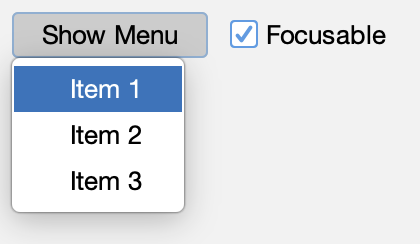
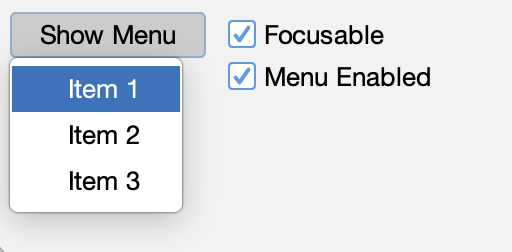
Update MenuItem.

Changed region(s): [[0.0, 0.0287, 0.9286, 0.918], [0.0, 0.9754, 0.031, 1.0]]

diff --git a/sierra-test/src/main/java/org/httprpc/sierra/test/MenuButtonTest.java b/sierra-test/src/main/java/org/httprpc/sierra/test/MenuButtonTest.java
@@ -34,6 +34,7 @@ public class MenuButtonTest extends JFrame implements Runnable {
     private @Outlet JMenuItem menuItem3 = null;
 
     private @Outlet JCheckBox focusableCheckBox = null;
+    private @Outlet JCheckBox menuEnabledCheckBox = null;
 
     private @Outlet JLabel selectionLabel = null;
 
@@ -56,6 +57,9 @@ public class MenuButtonTest extends JFrame implements Runnable {
         focusableCheckBox.addActionListener(event -> toggleFocusable());
         focusableCheckBox.setSelected(true);
 
+        menuEnabledCheckBox.addActionListener(event -> toggleMenuEnabled());
+        menuEnabledCheckBox.setSelected(true);
+
         setSize(320, 160);
         setVisible(true);
     }
@@ -66,6 +70,10 @@ public class MenuButtonTest extends JFrame implements Runnable {
 
     private void toggleFocusable() {
         menuButton.setFocusable(focusableCheckBox.isSelected());
+    }
+
+    private void toggleMenuEnabled() {
+        menuButton.getComponentPopupMenu().setEnabled(menuEnabledCheckBox.isSelected());
     }
 
     public static void main(String[] args) {

diff --git a/sierra/src/main/java/org/httprpc/sierra/MenuButton.java b/sierra/src/main/java/org/httprpc/sierra/MenuButton.java
@@ -117,7 +117,7 @@ public class MenuButton extends JButton {
         setModel(new JToggleButton.ToggleButtonModel() {
             @Override
             public void setSelected(boolean selected) {
-                if (selected && popupMenu.getComponentCount() > 0) {
+                if (selected && popupMenu.isEnabled() && popupMenu.getComponentCount() > 0) {
                     super.setSelected(true);
 
                     var size = getSize();

diff --git a/README.md b/README.md
@@ -432,7 +432,7 @@ See [SuggestionPickerTest.java](sierra-test/src/main/java/org/httprpc/sierra/tes
 ## Menu Buttons
 The `MenuButton` component displays a popup menu when pressed:
 
-<img src="README/menu-button.png" width="210px"/>
+<img src="README/menu-button.png" width="256px"/>
 
 See [MenuButtonTest.java](sierra-test/src/main/java/org/httprpc/sierra/test/MenuButtonTest.java) for more information.
 
